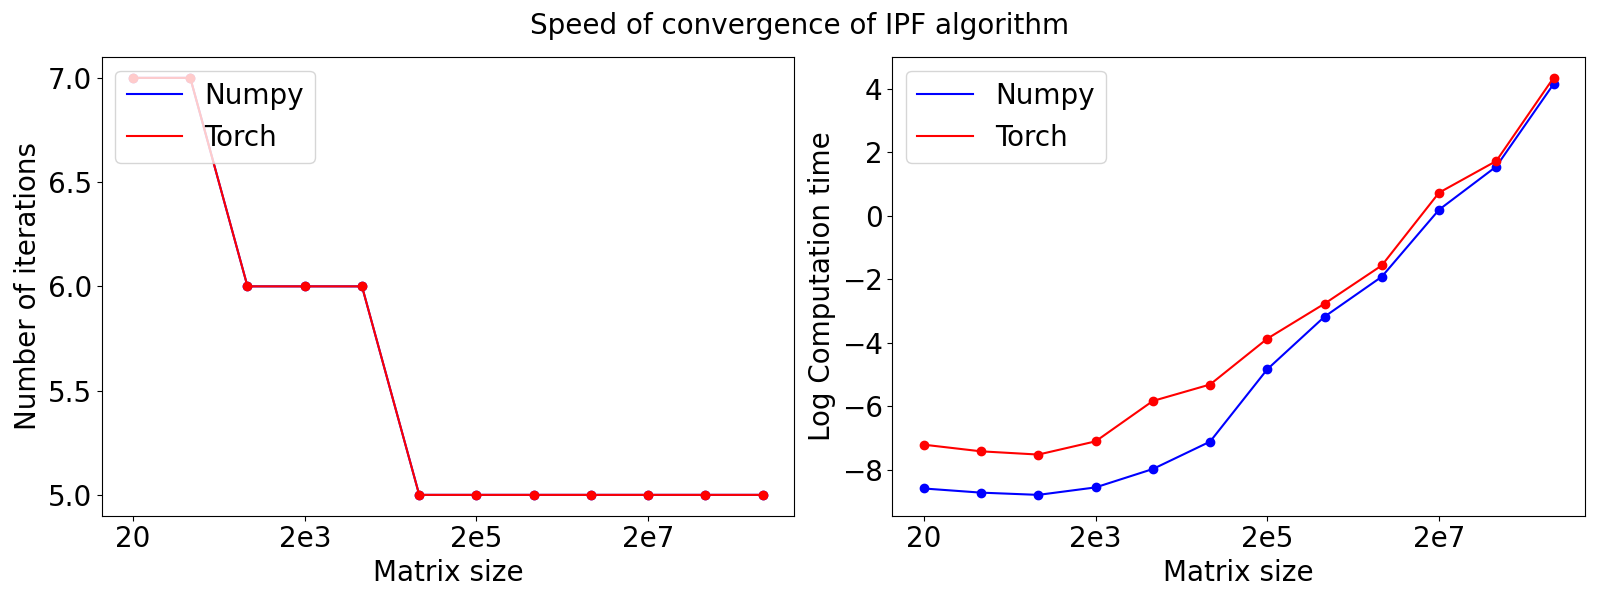
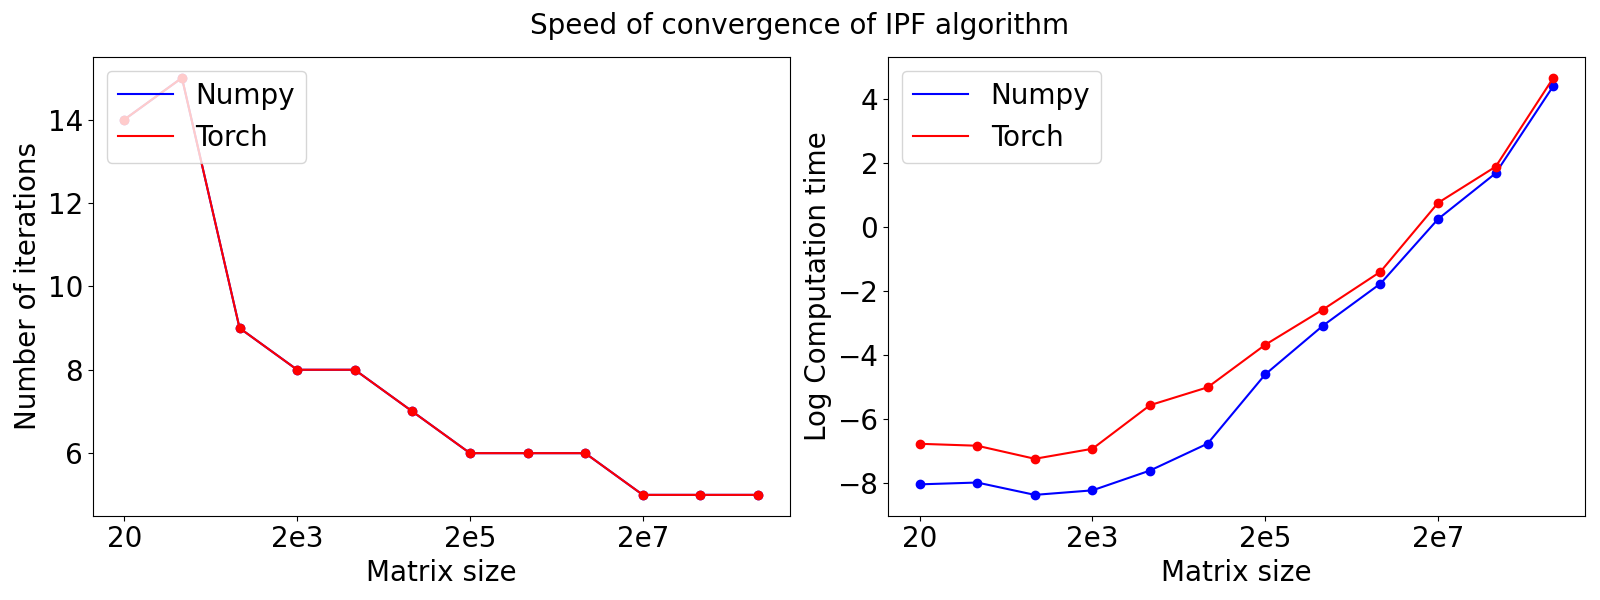
wider range of values for the means

diff --git a/run_experiment.py b/run_experiment.py
@@ -121,7 +121,7 @@ def create_experiment(n, m, plot=True):
     np.random.seed(n * m)
 
     # Choose values for x, mu_i, mu_j
-    x = np.random.uniform(0.8 / (n * m), 1.2 / (n * m), m * n).reshape((n, m))
+    x = np.random.uniform(0.01 / (n * m), 1.99 / (n * m), m * n).reshape((n, m))
     mu_i = np.random.uniform(0.75 / n, 1.25 / n, n)
     mu_i = mu_i / np.sum(mu_i)
     mu_j = np.random.uniform(0.75 / m, 1.25 / m, m)
@@ -169,7 +169,7 @@ def create_experiment_torch(n, m, plot=True):
     np.random.seed(n * m)
 
     # Choose values for x, mu_i, mu_j
-    x = np.random.uniform(0.8 / (n * m), 1.2 / (n * m), m * n).reshape((n, m))
+    x = np.random.uniform(0.01 / (n * m), 1.99 / (n * m), m * n).reshape((n, m))
     mu_i = np.random.uniform(0.75 / n, 1.25 / n, n)
     mu_i = mu_i / np.sum(mu_i)
     mu_j = np.random.uniform(0.75 / m, 1.25 / m, m)
